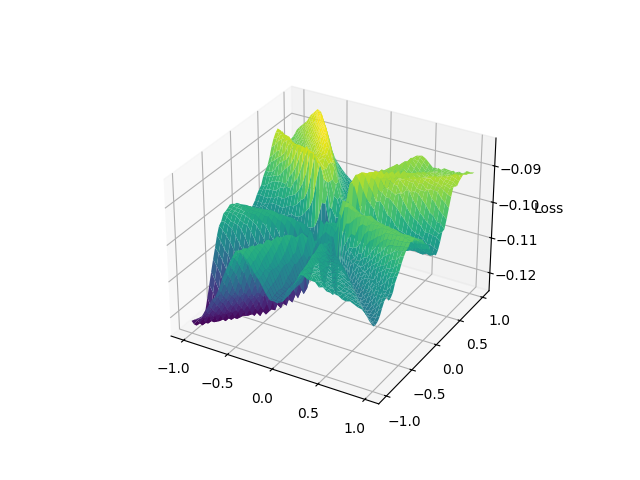
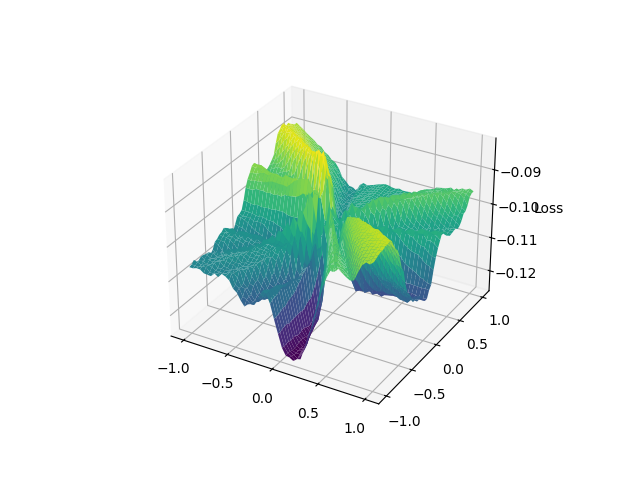
Updated resnet parameter plot

diff --git a/computer-vision/resnet/parameter_plot.py b/computer-vision/resnet/parameter_plot.py
@@ -3,11 +3,13 @@ import matplotlib.pyplot as plt
 import torch
 import torch.nn as nn
 from model import Net
-from tqdm import tqdm
 import os
+from copy import deepcopy
+import time
 
 from torch.utils.data import DataLoader
 from dataloader import Cifar10Dataloader
+from concurrent.futures import ThreadPoolExecutor
 
 def random_direction(model):
     direction = []
@@ -19,7 +21,20 @@ def perturb_model(model, base_params, direction, alpha, beta):
     for i, param in enumerate(model.parameters()):
         param.data = base_params[i] + alpha * direction[0][i] + beta * direction[1][i]
 
-def run(model: Net, data_loader: DataLoader):
+def get_loss(train_loader, device, model, loss_fn, point, loss_surface):
+#    print(device)
+    total_loss = 0.0
+    model.to(device)
+    for inputs, targets in (train_loader):
+        outputs = model(inputs.to(device))
+        loss = loss_fn(outputs, targets.to(device))
+        total_loss += loss.item()
+    return point, total_loss / len(train_loader)
+
+CURRENT_ITERATIONS = 0
+
+def run(model: Net):
+    global CURRENT_ITERATIONS
     name = "loss_skip_connections.png" if model.skip_connections else "loss_no_skip_connections.png"
     if os.path.isfile(name):
         print(f"{name} exists, skipping")
@@ -32,20 +47,53 @@ def run(model: Net, data_loader: DataLoader):
     direction = [random_direction(model) for _ in range(2)]
 
     loss_fn = nn.NLLLoss()
-    index = 0
-    for i, alpha in enumerate(alphas):
-        for j, beta in enumerate(betas):
-            perturb_model(model, base_params, direction, alpha, beta)
-            
-            # Compute loss over a batch or dataset
-            total_loss = 0.0
-            for inputs, targets in tqdm(data_loader):
-                outputs = model(inputs)
-                loss = loss_fn(outputs, targets)
-                total_loss += loss.item()
-            loss_surface[i, j] = total_loss / len(data_loader)
-            index += 1
-            print(index)
+    # Total size
+    TOTAL_ITERATIONS = (alphas.size * betas.size) * 2
+    start = time.time()
+
+    def iteration_done(future):
+        global CURRENT_ITERATIONS
+        point, loss_norm = future.result()
+        (i, j) = point
+        loss_surface[i, j] = loss_norm
+
+        if CURRENT_ITERATIONS % torch.cuda.device_count() == 0 and torch.device:
+            print(CURRENT_ITERATIONS, TOTAL_ITERATIONS, CURRENT_ITERATIONS / float(TOTAL_ITERATIONS) * 100)
+            runtime = (time.time() - start)
+            # what is left
+            if CURRENT_ITERATIONS > 0:
+                delta = CURRENT_ITERATIONS / float(TOTAL_ITERATIONS)
+                total_time = runtime / delta 
+                
+                print("Timer (sec): ", total_time - runtime)
+                print("Timer (hours): ", (total_time - runtime) / 3600)
+        CURRENT_ITERATIONS += 1
+
+    train_loaders = {
+        i: DataLoader(
+            Cifar10Dataloader(),
+            batch_size=512,
+            shuffle=True, 
+            num_workers=2,
+        )
+        for i in range(torch.cuda.device_count())
+    }
+    counter = 0
+    with ThreadPoolExecutor(max_workers=torch.cuda.device_count() * 8) as executor:
+        for i, alpha in enumerate(alphas):
+            for j, beta in enumerate(betas):
+                perturb_model(model, base_params, direction, alpha, beta)
+                
+                # Compute loss over a batch or dataset
+                device_counter = counter % torch.cuda.device_count()
+                device = torch.device(f'cuda:{(device_counter)}')
+                future = executor.submit(get_loss, train_loaders[device_counter], device, deepcopy(model), loss_fn, (i, j), loss_surface)
+                future.add_done_callback(iteration_done)
+                counter += 1
+
+        while executor._work_queue.qsize() > 0:
+            print(f"{CURRENT_ITERATIONS / TOTAL_ITERATIONS * 100} % ")
+            time.sleep(0.5)
 
     fig = plt.figure()
     ax = fig.add_subplot(111, projection='3d')
@@ -57,9 +105,4 @@ def run(model: Net, data_loader: DataLoader):
 if __name__ == "__main__":
     for i in [False, True]:
         model = Net(skip_connections=i)
-
-        train_loader = DataLoader(Cifar10Dataloader(),
-                                batch_size=64,
-                                shuffle=True, 
-                                num_workers=8)
-        run(model, train_loader)
+        run(model)

diff --git a/computer-vision/resnet/dataloader.py b/computer-vision/resnet/dataloader.py
@@ -8,12 +8,13 @@ transform = transforms.Compose(
 
 
 class Cifar10Dataloader(Dataset):
-    def __init__(self, test=False):
+    def __init__(self, test=False, max_files=float('inf')):
         self.dataset = torchvision.datasets.CIFAR10(root='./data', train=(not test),
                                                           download=True, transform=transform)
+        self.max_files = max_files
 
     def __len__(self):
-        return len(self.dataset)
+        return min(len(self.dataset), self.max_files)
 
     def __getitem__(self, idx):
         return self.dataset[idx]

diff --git a/computer-vision/resnet/readme.md b/computer-vision/resnet/readme.md
@@ -4,8 +4,18 @@ https://arxiv.org/pdf/1512.03385.pdf
 
 
 ### Results
-![loss_resnet_vs_non_resnet](loss_resnet_vs_non_resnet.png)
 
-![testing_accuracy_resnet_vs_non_resnet](testing_accuracy_resnet_vs_non_resnet.png)
+|                 Testing accuracy                 |                 Training accuracy                 |                 Loss                 |
+| :----------------------------------------------: | :-----------------------------------------------: | :----------------------------------: |
+| ![](./testing_accuracy_resnet_vs_non_resnet.png) | ![](./training_accuracy_resnet_vs_non_resnet.png) | ![](./loss_resnet_vs_non_resnet.png) |
 
-![training_accuracy_resnet_vs_non_resnet](training_accuracy_resnet_vs_non_resnet.png)
+
+## Plot curve
+I tried to reproduce the loss landscape with / without skip connections ([paper](https://arxiv.org/pdf/1712.09913)) 
+
+Didn't fully work, but you get the idea.
+
+|         No skip connection          |         Skip connection          |
+| :---------------------------------: | :------------------------------: |
+| ![](./loss_no_skip_connections.png) | ![](./loss_skip_connections.png) |
+

diff --git a/notes/misc.md b/notes/misc.md
@@ -63,6 +63,11 @@ They made some data observations which was kinda intresting
   - neural-symbolic with a language model based on Gemini. It uses search trees to tackle more complex problems.
 
 
+[Solution files](https://storage.googleapis.com/deepmind-media/DeepMind.com/Blog/imo-2024-solutions/index.html)
+
+[AlphaProof's Greatest Hits](https://rishimehta.xyz/2024/11/17/alphaproofs-greatest-hits.html). 
+
+
 ## [Segment Anything Model 2](https://github.com/smlxl/storage-explorer/)
 [Original model](https://ai.meta.com/blog/segment-anything-foundation-model-image-segmentation/)
 

diff --git a/notes/mllm.md b/notes/mllm.md
@@ -60,3 +60,9 @@ There are some examples from driving scene which the model is also able to corre
 - (Foundation) models on models 
 - Transformer
 - Video editing, video generation (16 seconds, 16 frames per second), audio generation
+
+## [EMMA: End-to-End Multimodal Model for Autonomous Driving](https://storage.googleapis.com/waymo-uploads/files/research/EMMA-paper.pdf)
+[Waymo Research](https://waymo.com/research/emma/)
+- Task prompt + Image = Answer + Visualizations
+- https://x.com/___Harald___/status/1852039810812203198
+- 

diff --git a/notes/llm.md b/notes/llm.md
@@ -883,3 +883,8 @@ Another good post from Karpathy. Basically special tokens used by LLM models can
     - [Blogpost on it](https://arcprize.org/blog/openai-o1-results-arc-prize)
   - [COT might noise the context](https://x.com/mlstreettalk/status/1835576313223987383)
 - [Where is John Schulman?](https://x.com/livgorton/status/1834769173458960675)
+
+# [FrontierMath](https://epoch.ai/frontiermath)
+- Benchmark to test math capbabilities of models
+- They max at around 2%
+

diff --git a/notes/p_doom.md b/notes/p_doom.md
@@ -12,3 +12,9 @@
 - The exception of rapid feedback does not seem to have happened
 - Capabilities will not increase without resource usage (at least for now)
 - The feedback loop after launch does not seem to be working "as planned" 
+
+## Elon Musk
+- [In a year or two it will be on par with a human](https://x.com/tsarnick/status/1851360143721869672). 
+  - https://x.com/___Harald___/status/1851496842024071372
+
+
